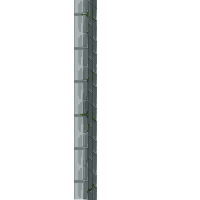
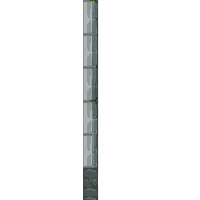
fix vertical wall

Changed region(s): [[0.36, 0.0, 0.51, 1.0]]

diff --git a/core/src/main/java/edu/cornell/jade/seasthethrone/gamemodel/gate/GateWallModel.java b/core/src/main/java/edu/cornell/jade/seasthethrone/gamemodel/gate/GateWallModel.java
@@ -29,7 +29,7 @@ public class GateWallModel extends BoxModel implements Renderable {
       this.texture_up = new TextureRegion(new Texture("levels/gate_vertical_up.png"));
       texture_up.setRegion(0, 0, (int) texture_up.getRegionWidth(), (int) (obs.height / WORLD_SCALE));
 
-      this.texture_down = new TextureRegion(new Texture("levels/gate_vertical_up.png"));
+      this.texture_down = new TextureRegion(new Texture("levels/gate_vertical_down.png"));
       texture_down.setRegion(0, 0, (int) texture_down.getRegionWidth(), (int) (obs.height / WORLD_SCALE));
     }
   }
